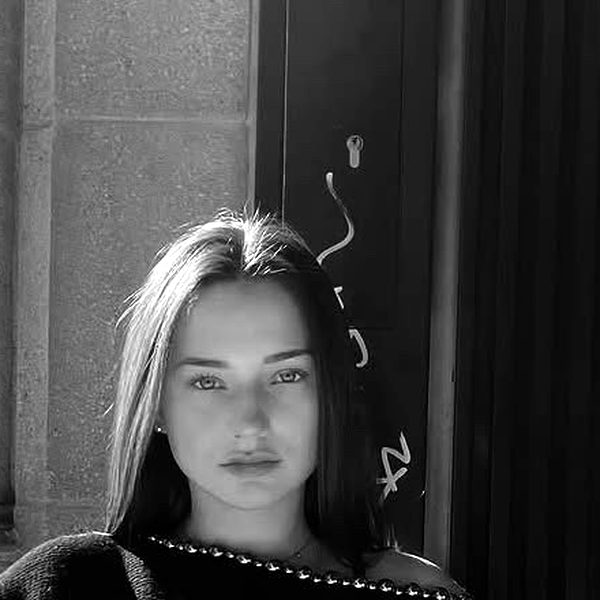
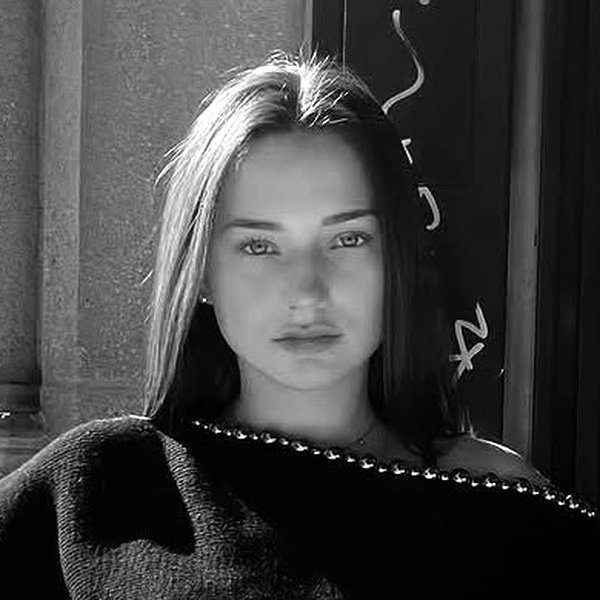
Open hero to all US residential roofers, rename FAQ, recenter Natasha's photo
Claude-Session: https://claude.ai/code/session_01LL7aYhVzzzNNsnerhKs7ZJ

diff --git a/src/app/page.tsx b/src/app/page.tsx
@@ -253,9 +253,8 @@ export default function Home() {
                 <span className="block text-orange">more calls from Google.</span>
               </h1>
               <p className="mt-6 max-w-xl text-lg text-white/85">
-                VileroMedia is a marketing agency that only works with <strong className="text-white">residential roofers in the US</strong> doing
-                $500K–$3M a year. We run your Google Ads and Local Services Ads, then your Local SEO, and we build the pages that turn
-                that traffic into booked inspections.
+                VileroMedia is a digital marketing agency for <strong className="text-white">residential roofing companies in the US</strong>. We run
+                your Google Ads and Local Services Ads, then your Local SEO, and we build the pages that turn that traffic into booked inspections.
               </p>
               <p className="mt-4 font-display text-2xl font-bold uppercase text-white/90">
                 Clicks don&apos;t pay the crew. <span className="text-orange">Booked inspections do.</span>
@@ -595,7 +594,7 @@ export default function Home() {
 
         {/* FAQ */}
         <section className="mx-auto max-w-6xl px-4 py-20 sm:px-6">
-          <SectionTitle eyebrow="Straight answers" title="Questions roofers ask us" />
+          <SectionTitle eyebrow="FAQ" title="Frequently asked questions" />
           <div className="mt-10 grid gap-4 md:grid-cols-2">
             {faqs.map((f) => (
               <details key={f.q} className="group rounded-lg border border-navy/10 bg-white p-5 open:shadow-sm">

diff --git a/src/app/layout.tsx b/src/app/layout.tsx
@@ -13,7 +13,7 @@ export const metadata: Metadata = {
   openGraph: {
     title: "VileroMedia | More roofing calls from Google",
     description:
-      "Google Ads and LSA for roofers doing $500K–$3M. Clear pricing, month-to-month, reports in calls, not clicks.",
+      "Google Ads and LSA for residential roofing companies in the US. Clear pricing, month-to-month, reports in calls, not clicks.",
     siteName: "VileroMedia",
     type: "website",
   },
